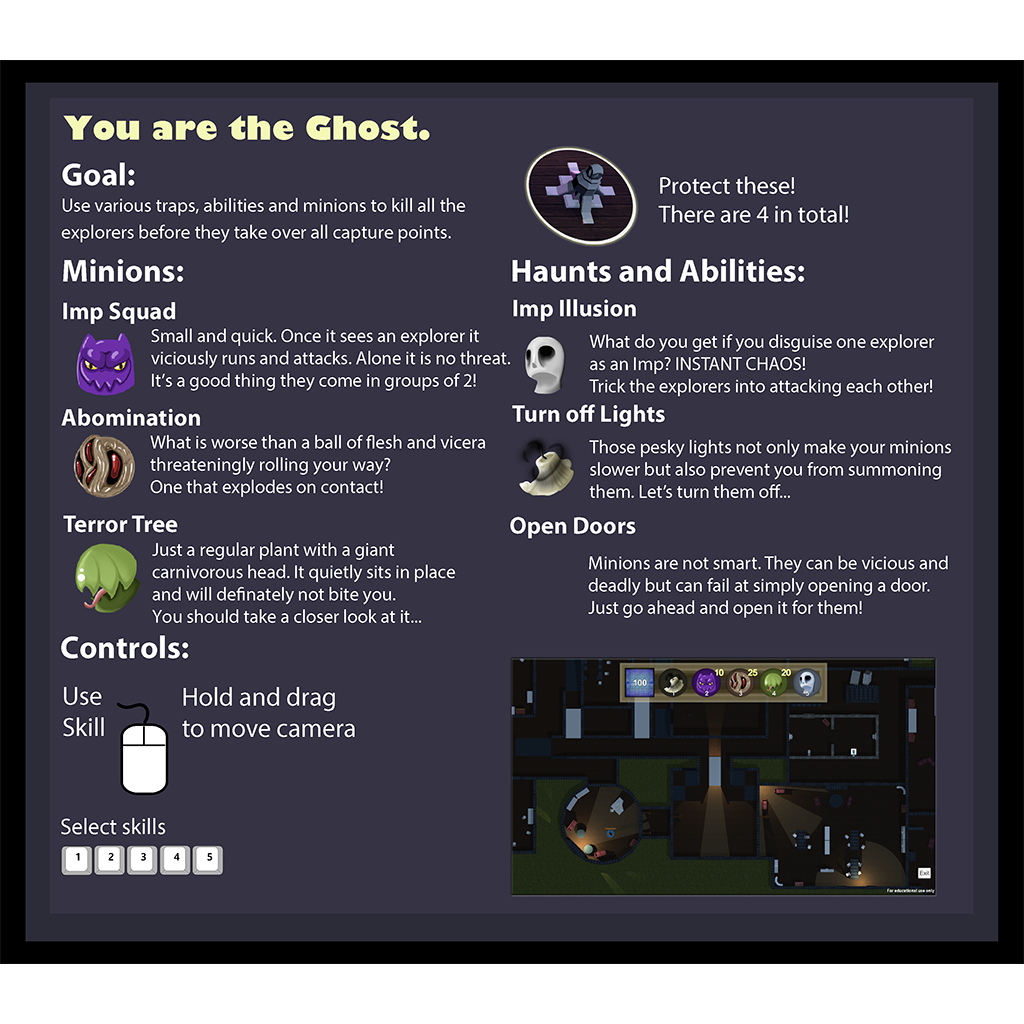
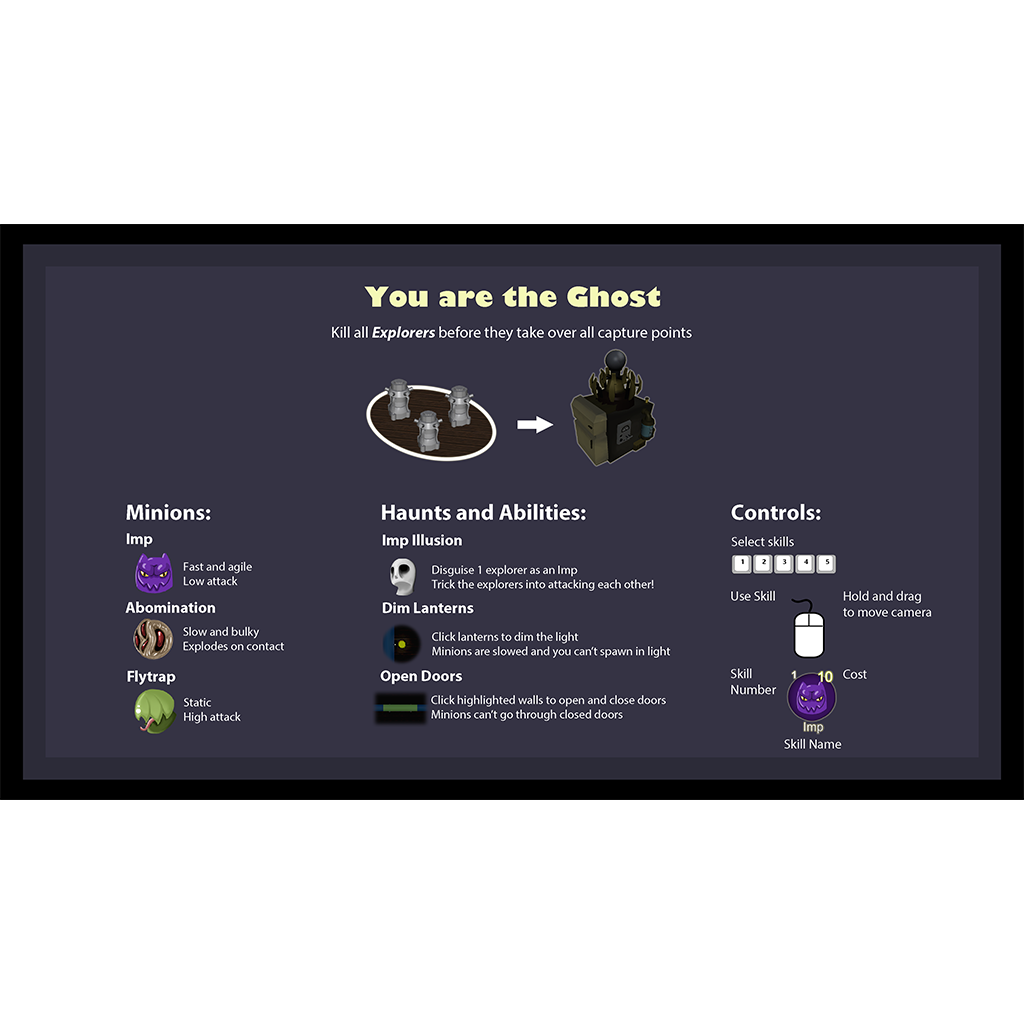
New start screens

diff --git a/capstone-game-cpp/UI/UIManager.cpp b/capstone-game-cpp/UI/UIManager.cpp
@@ -153,7 +153,7 @@ void UIManager::RenderReadyScreen(int playerID)
 
 	mSpriteManager->DrawSprite(SPRITESHEET_CONTROL_ICONS, 15, mSpriteManager->perc2f(0.5f, 0.5f), mSpriteManager->perc2f(1, 1), vec4f(0.7f, 0.7f, 0.7f, 0.5f));
 	
-	mSpriteManager->DrawSprite(SpriteSheetCode(SPRITESHEET_START_0+playerID), 0, mSpriteManager->perc2f(0.5f, 0.5f), mSpriteManager->perc2f(0.5f, 0.5f) * vec2f(1, 16.0f/11.0f));
+	mSpriteManager->DrawSprite(SpriteSheetCode(SPRITESHEET_START_0+playerID), 0, mSpriteManager->perc2f(0.5f, 0.5f), mSpriteManager->perc2f(0.6f, 0.6f).x * vec2f(1, 1));
 
 	mSpriteManager->DrawSprite(SPRITESHEET_GENERAL_ICONS, 0, mSpriteManager->perc2f(0.5f, 0.91f) + vec2f(-135, 0), vec2f(70, 70));
 	mSpriteManager->DrawSprite(SPRITESHEET_GENERAL_ICONS, 1, mSpriteManager->perc2f(0.5f, 0.91f) + vec2f(-45, 0), vec2f(70, 70));
